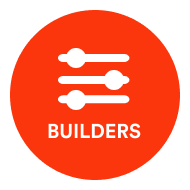
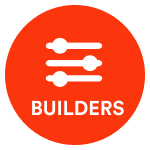
builders button

diff --git a/king_copy_24_4k.html b/king_copy_24_4k.html
@@ -685,6 +685,9 @@
             if (panel === "searchPanelTier1") {
                 document.getElementById(panel).style.bottom = "25px";
             } 
+            if (panel === "searchPanelTier2") {
+                document.getElementById(panel).style.bottom = "25px";
+            } 
 
 
         }
@@ -1182,7 +1185,7 @@
                         // buttonType: "toggle",
                         positionType: 'flex',
                         position: { top: 5, left: 1170 },
-                        imgSize: { width: 95, height: 95 },
+                        imgSize: { width: 150, height: 150 },
                         layerId: "searchPanelTier2",
                         callbackAction: function () {
                             pannelShow("searchPanelTier3")
